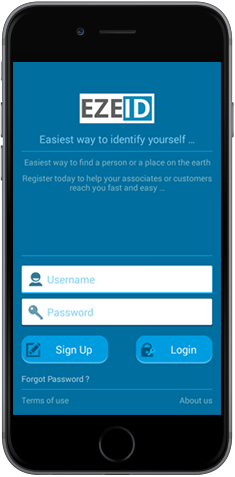
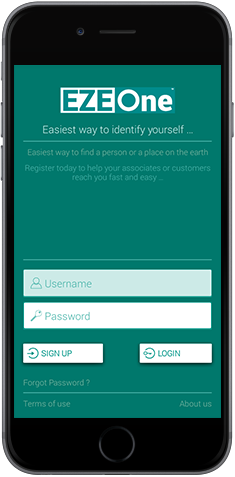
EZEID Changed to EZEOne ID

diff --git a/public/html/profile/profile-manager.html b/public/html/profile/profile-manager.html
@@ -210,7 +210,7 @@
 <form name="userDetailsForm">
 <div class="row">
     <div class="col-lg-2 col-md-2 col-sm-2 col-xs-6 bottom-clearfix label">
-        <h5 class="text-primary text-left">EZEID</h5>
+        <h5 class="text-primary text-left">EZEOne ID</h5>
     </div>
     <div class="col-lg-4 col-md-4 col-sm-4 col-xs-6 bottom-clearfix">
         <h5 class="text-primary text-left font-open-sans data">
@@ -1721,7 +1721,7 @@
 
                                         <!--- Disabled in case of business user free listing ----------->
                                         <li role="presentation"
-                                            title="Get verified by EZEID Area Partner to access this area"
+                                            title="Get verified by EZEOne Area Partner to access this area"
                                             ng-show="(userDetails.EZEIDVerifiedID !== 2 && userDetails.IDTypeID == 2 )"
                                             class="bottom-clearfix disabled">
                                             <a><span class="glyphicon glyphicon-cog"></span> Configuration</a>
@@ -1736,7 +1736,7 @@
 
 
                                         <li ng-show="(_userInfo.Type == 2 && userDetails.EZEIDVerifiedID !== 2)" role="presentation" class=" bottom-clearfix disabled"
-                                            title="Get verified by EZEID Area Partner to access this area"
+                                            title="Get verified by EZEOne Area Partner to access this area"
                                             ng-class="{'active' : (activeTemplate === 'html/profile/about-company.html')}">
                                             <a><span class="glyphicon glyphicon-bookmark"></span> Company Profile</a>
                                         </li>
@@ -1749,7 +1749,7 @@
                                         </li>
 
                                         <li role="presentation" class=" bottom-clearfix disabled"
-                                            title="Get verified by EZEID Area Partner to access this area"
+                                            title="Get verified by EZEOne Area Partner to access this area"
                                             ng-show="(userDetails.IDTypeID == 2 && userDetails.EZEIDVerifiedID !== 2)">
                                             <a><span class="glyphicon glyphicon-link"></span> Web Links</a>
                                         </li>

diff --git a/public/html/profile/configuration/subviews/subusers.html b/public/html/profile/configuration/subviews/subusers.html
@@ -77,11 +77,11 @@
         <div class="col-lg-4 col-md-4 col-sm-4 col-xs-8 bottom-clearfix">
             <div class="input-group">
                 <span class="input-group-addon" id="basic-addon1"><span class="glyphicon glyphicon-user"></span> </span>
-                <input capitalize ng-model="modalBox.subuser.ezeid" type="text" class="form-control" placeholder="Subuser EZEID" aria-describedby="basic-addon1">
+                <input capitalize ng-model="modalBox.subuser.ezeid" type="text" class="form-control" placeholder="Subuser EZEOne ID" aria-describedby="basic-addon1">
             </div>
         </div>
         <div class="col-lg-3 col-md-3 col-sm-3 col-xs-4 bottom-clearfix">
-            <button ng-hide="modalBox.ezeidExists" ng-click="checkAvailability()" class="btn btn-primary btn-block"><span class="glyphicon glyphicon-search"></span> CHECK EZEOne</button>
+            <button ng-hide="modalBox.ezeidExists" ng-click="checkAvailability()" class="btn btn-primary btn-block"><span class="glyphicon glyphicon-search"></span> CHECK EZEOne ID</button>
         </div>
         <div class="col-lg-2 col-md-2 col-sm-2 col-xs-4 bottom-clearfix" ng-hide="modalBox.ezeidExists">
             <div class="form-group" data-toggle="tooltip" data-placement="right" title="Subuser Status">

diff --git a/public/directives/Header.html b/public/directives/Header.html
@@ -37,7 +37,7 @@
                         <ul style="margin-top:10px!important;" class="pad0px">
                             <li class="dsp_block padT10px">
                                 <div class="pull-left wd48p marL10px">
-                                    <input type="text" name="UserName" id="UserName" autofocus="autofocus" style='text-transform:uppercase' class="form-control wd10_px user_input mar_leftInp emptyBox"  ng-class="SignInForm.UserName.$touched && !SignInCtrl.LInfo.UserName.length ? 'mandatoryTextBox' : ''" ng-model="SignInCtrl.LInfo.UserName" placeholder="Type EZE ID" required />
+                                    <input type="text" name="UserName" id="UserName" autofocus="autofocus" style='text-transform:uppercase' class="form-control wd10_px user_input mar_leftInp emptyBox"  ng-class="SignInForm.UserName.$touched && !SignInCtrl.LInfo.UserName.length ? 'mandatoryTextBox' : ''" ng-model="SignInCtrl.LInfo.UserName" placeholder="Type EZEOne ID" required />
                                 </div>
                                 <div class="clearfix mob_marT15px"></div>
                                 <div class="pull-left wd48p marL10px">

diff --git a/public/html/blacklistwhitelist.html b/public/html/blacklistwhitelist.html
@@ -65,10 +65,10 @@
                                         </select>
                                     </div>
                                     <div class="col-lg-1 col-md-1 col-sm-1 col-xs-1 setLeftRightPaddingZero">
-                                        <span>EZEOne</span>
+                                        <span>EZEOne ID</span>
                                     </div>
                                     <div class="col-lg-2 col-md-2 col-sm-2 col-xs-2">
-                                        <input id="EZEID" style='text-transform:uppercase' class="form-control" type="text" placeholder="EZEOne"  ng-model="blacklist._info.EZEID" />
+                                        <input id="EZEID" style='text-transform:uppercase' class="form-control" type="text" placeholder="EZEOne ID"  ng-model="blacklist._info.EZEID" />
                                     </div>
                                     <div class="col-lg-2 col-md-2 col-sm-2 col-xs-2" ng-show="blacklist._info.List == 1">
                                         <select class="form-control " name="tags" ng-model="blacklist._info.Tag"

diff --git a/public/html/chat/groupListing.html b/public/html/chat/groupListing.html
@@ -2,7 +2,7 @@
   <div class="row setRowLeftRightMarginZero setLeftRightPaddingZero paddingLeft12">
     <div class="col-lg-12 col-md-12 col-sm-12 col-xs-12 setLeftRightPaddingZero">
         <div class="col-lg-8 col-md-8 col-sm-8 col-xs-8 topMarginButton setPaddingLeftRight2">
-            <input ng-model="ezeid" max-length="15" ezeid-only="" capitalize="" ng-pattern="/^[0-9a-zA-Z]{3,15}$/" name="ezeid" type="text" placeholder="Enter EZEID to find" class="form-control ng-pristine ng-valid ng-valid-pattern ng-touched">
+            <input ng-model="ezeid" max-length="15" ezeid-only="" capitalize="" ng-pattern="/^[0-9a-zA-Z]{3,15}$/" name="ezeid" type="text" placeholder="Enter EZEOne ID to find" class="form-control ng-pristine ng-valid ng-valid-pattern ng-touched">
         </div>
         <div class="col-lg-4 col-md-4 col-sm-4 col-xs-4 topMarginButton setPaddingLeftRight2 keyWordText">
             <button type="submit" class="btn btn-primary" ng-click="SendEnquiryMail()"><span class="glyphicon glyphicon-search" ></span></button>

diff --git a/public/html/profile/sign-up.html b/public/html/profile/sign-up.html
@@ -447,7 +447,7 @@
                                                         <div class="row bottom-clearfix" ng-show="isEzeidAvailabilityChecked && isEzeidAvailable">
                                                             <div class="col-lg-3 col-md-3 col-sm-3 col-xs-4">
                                                                 <div class="form-group">
-                                                                    <button class="btn btn-primary" ng-click="doSignUp()" ng-disabled="(!isEzeidAvailable) || (!termsAccepted)">Generate EZEOne</button>
+                                                                    <button class="btn btn-primary" ng-click="doSignUp()" ng-disabled="(!isEzeidAvailable) || (!termsAccepted)">Generate EZEOne ID</button>
                                                                 </div>
                                                             </div>
                                                             <div class="col-lg-2 col-md-2 col-sm-3 col-xs-4">

diff --git a/public/html/profile/configuration/subviews/rules.html b/public/html/profile/configuration/subviews/rules.html
@@ -346,11 +346,11 @@
                                 <br/>
                                 <input maxlength="5000" type="text" class="form-control" ng-model="modalBox.tempMappedName"/>
                                 <br/>
-                                <button class="btn btn-sm btn-success no-radius" ng-click="addMappedEzeid()"> Add Current EZEOne</button>
+                                <button class="btn btn-sm btn-success no-radius" ng-click="addMappedEzeid()"> Add Current EZEOne ID</button>
                             </div>
 
                             <div class="form-group">
-                                <label>Mapped EZEOnes</label>
+                                <label>Mapped EZEOne IDs</label>
 
                                 <button ng-repeat="mapName in modalBox.rule.MappedNames track by $index" class="btn btn-info btn-block btn-sm">{{mapName}}
                                     <i class="pull-right fa fa-remove" ng-click="removeMappedName($index)"></i>

diff --git a/public/html/home.html b/public/html/home.html
@@ -444,7 +444,7 @@
                                                             <div class="col-lg-2 col-md-3 col-sm-3 col-xs-12 normalFontSize text-left">
 
                                                                 <input type="radio" class="setRadioFilterSpace" ng-model="search.Criteria.SearchType" id="EZEID" value="1" name="searchBy" ng-change="search.isEZEIDselected('1')" class="radioTopMargin" checked>
-                                                                <label class="btn-link" for="EZEID"> EZEOne</label>
+                                                                <label class="btn-link" for="EZEID"> EZEOne ID</label>
                                                             </div>
 
                                                             <div class="col-lg-3 col-md-3 col-sm-3 col-xs-12 normalFontSize text-left">

diff --git a/public/html/landing.html b/public/html/landing.html
@@ -280,7 +280,13 @@
         <div class="container width-75">
             <div class="col-lg-8">
                 <div class="app-title text-center">
-                    <h2 class="font-open-sans text-black text-bolder"><span class="text-dark-blue EZEONE-eze-style">EZE</span><span class="EZEONE-id-style">ID</span></h2>
+                    <h2 style="margin-top:3px;font-family: 'Arial',sans-serif;cursor:pointer"
+                        ng-click="$root.navigateHome()"
+                        class="font-roboto text-black text-bolder">
+                        <span class="text-dark-blue ezeid-eze-style">EZE</span><span class="ezeid-id-style">One
+                    <sup class="tm">TM</sup>
+                </span>
+                    </h2>
                 </div>
             </div>
             <div class="col-lg-4">&nbsp;</div>

diff --git a/public/html/business-manager/service/service.html b/public/html/business-manager/service/service.html
@@ -9,7 +9,7 @@
                 <div class="row">
                     <div class="col-lg-3 col-md-3 col-sm-3 col-xs-12">
                         <div class="input-group tx-search-input-group">
-                            <input class="form-control" ng-model="txSearchTerm" type="text" placeholder="Search records based on EZEID or message"/>
+                            <input class="form-control" ng-model="txSearchTerm" type="text" placeholder="Search records based on EZEOne ID or message"/>
                             <span class="input-group-addon btn-link" title="Clear" ng-show="txSearchTerm" ng-click="clearSearchTerm(1,statusType)">
                                     <i class="fa fa-times"></i>
                             </span>

diff --git a/public/html/business-manager/resume/resume.html b/public/html/business-manager/resume/resume.html
@@ -10,7 +10,7 @@
 
                     <div class="col-lg-3 col-md-3 col-sm-3 col-xs-12 bottom-clearfix">
                         <div class="input-group tx-search-input-group">
-                            <input class="form-control" ng-model="txSearchTerm" type="text" placeholder="Search records based on EZEID or message"/>
+                            <input class="form-control" ng-model="txSearchTerm" type="text" placeholder="Search records based on EZEOne ID or message"/>
                             <span class="input-group-addon btn-link" title="Clear" ng-show="txSearchTerm" ng-click="clearSearchTerm(1,statusType)">
                                     <i class="fa fa-times"></i>
                             </span>

diff --git a/public/html/business-manager/sales/sales.html b/public/html/business-manager/sales/sales.html
@@ -10,7 +10,7 @@
 
                     <div class="col-lg-3 col-md-5 col-sm-3 col-xs-12 bottom-clearfix">
                         <div class="input-group tx-search-input-group">
-                            <input class="form-control" ng-model="txSearchTerm" type="text" placeholder="Search records based on EZEID or message"/>
+                            <input class="form-control" ng-model="txSearchTerm" type="text" placeholder="Search records based on EZEOne ID or message"/>
                             <span class="input-group-addon btn-link" title="Clear" ng-show="txSearchTerm" ng-click="clearSearchTerm(1,statusType)">
                                     <i class="fa fa-times"></i>
                             </span>
